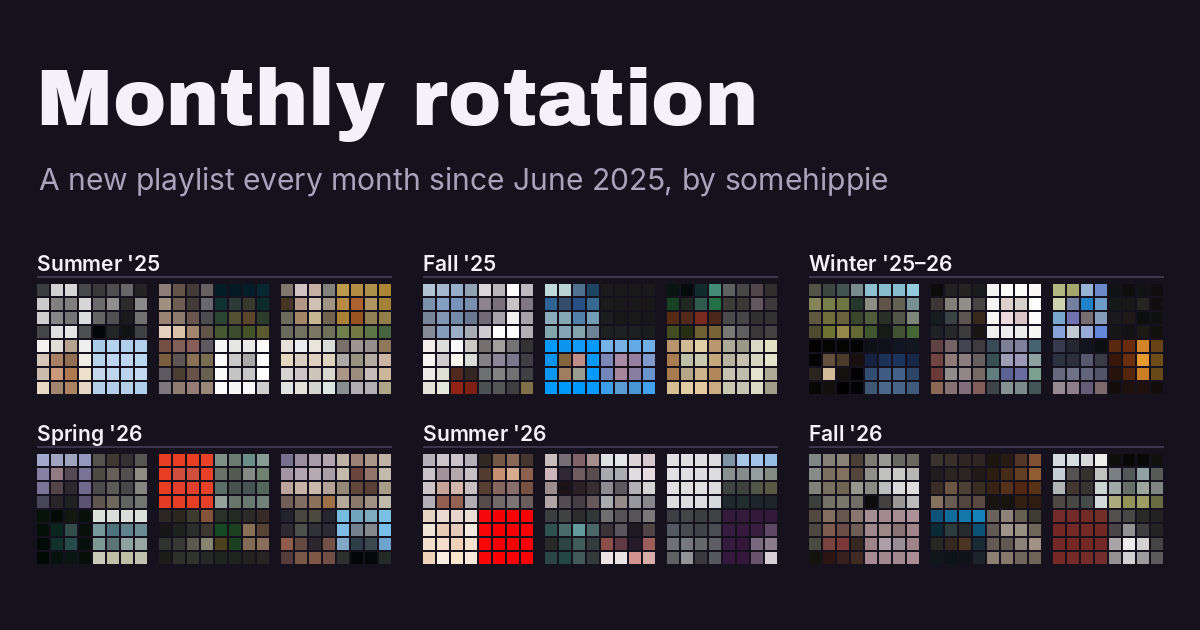
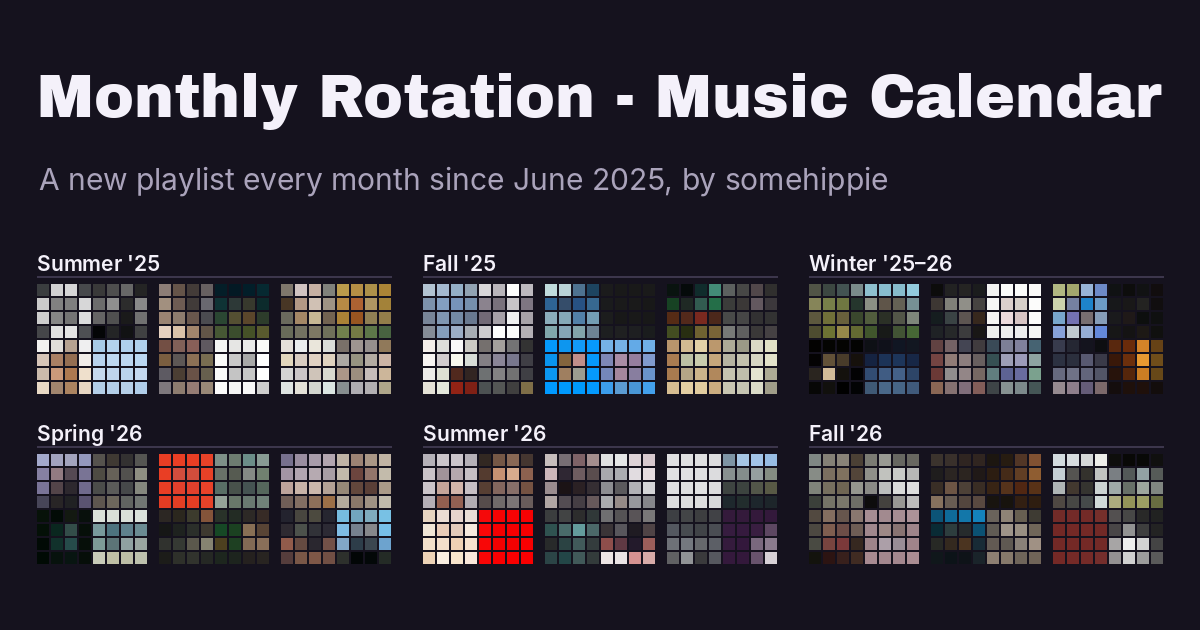
Rename the site to Monthly Rotation - Music Calendar

Changed region(s): [[0.0308, 0.0905, 0.9867, 0.2413]]

diff --git a/index.html b/index.html
@@ -3,10 +3,10 @@
 <head>
 <meta charset="utf-8">
 <meta name="viewport" content="width=device-width, initial-scale=1">
-<title>Monthly Rotation</title>
+<title>Monthly Rotation - Music Calendar</title>
 <meta name="description" content="somehippie's playlist calendar: a new playlist every month since June 2025, on Spotify and YouTube.">
 <meta property="og:type" content="website">
-<meta property="og:title" content="Monthly rotation">
+<meta property="og:title" content="Monthly Rotation - Music Calendar">
 <meta property="og:description" content="A new playlist every month since June 2025, on Spotify and YouTube.">
 <meta property="og:image" content="https://somehippie.github.io/playlists/og.png">
 <meta name="twitter:card" content="summary_large_image">
@@ -228,7 +228,7 @@ footer{border-top:1px solid var(--line)}
 <header class="band top">
   <div class="wrap head">
     <div>
-      <h1>Monthly rotation</h1>
+      <h1>Monthly Rotation - Music Calendar</h1>
       <p class="lede">somehippie's playlist calendar: a new playlist every month since June 2025, on Spotify and YouTube. Tap a month to see the songs.</p>
     </div>
     <nav class="pills" aria-label="Profiles and settings">
@@ -686,7 +686,7 @@ document.addEventListener('click', e => {
     if (t) play('sp', 'track', t[0], {k: m.key, track: sid(t[0]), title: t[1], sub: `${t[2].join(', ')}, from ${m.label}`, art: m.isComp ? compArt(m) : mosaic(m)});
   }
   else if (act === 'share') {
-    const url = location.href.split('#')[0] + '#' + slugOf(current), title = m ? `${m.label} on Monthly rotation` : 'Monthly rotation';
+    const url = location.href.split('#')[0] + '#' + slugOf(current), title = m ? `${m.label} on Monthly Rotation - Music Calendar` : 'Monthly Rotation - Music Calendar';
     const done = txt => { b.textContent = txt; setTimeout(() => { if (b.isConnected) b.textContent = navigator.share ? 'Share' : 'Copy link'; }, 2400); };
     if (navigator.share) navigator.share({title, url}).catch(() => {});
     else Promise.resolve().then(() => navigator.clipboard.writeText(url)).then(() => done('Link copied'), () => done('Copy failed: the link is in the address bar'));

diff --git a/README.md b/README.md
@@ -1,4 +1,4 @@
-# Monthly rotation
+# Monthly Rotation - Music Calendar
 
 A calendar of my monthly playlists, June 2025 onward, on Spotify and YouTube.
 
